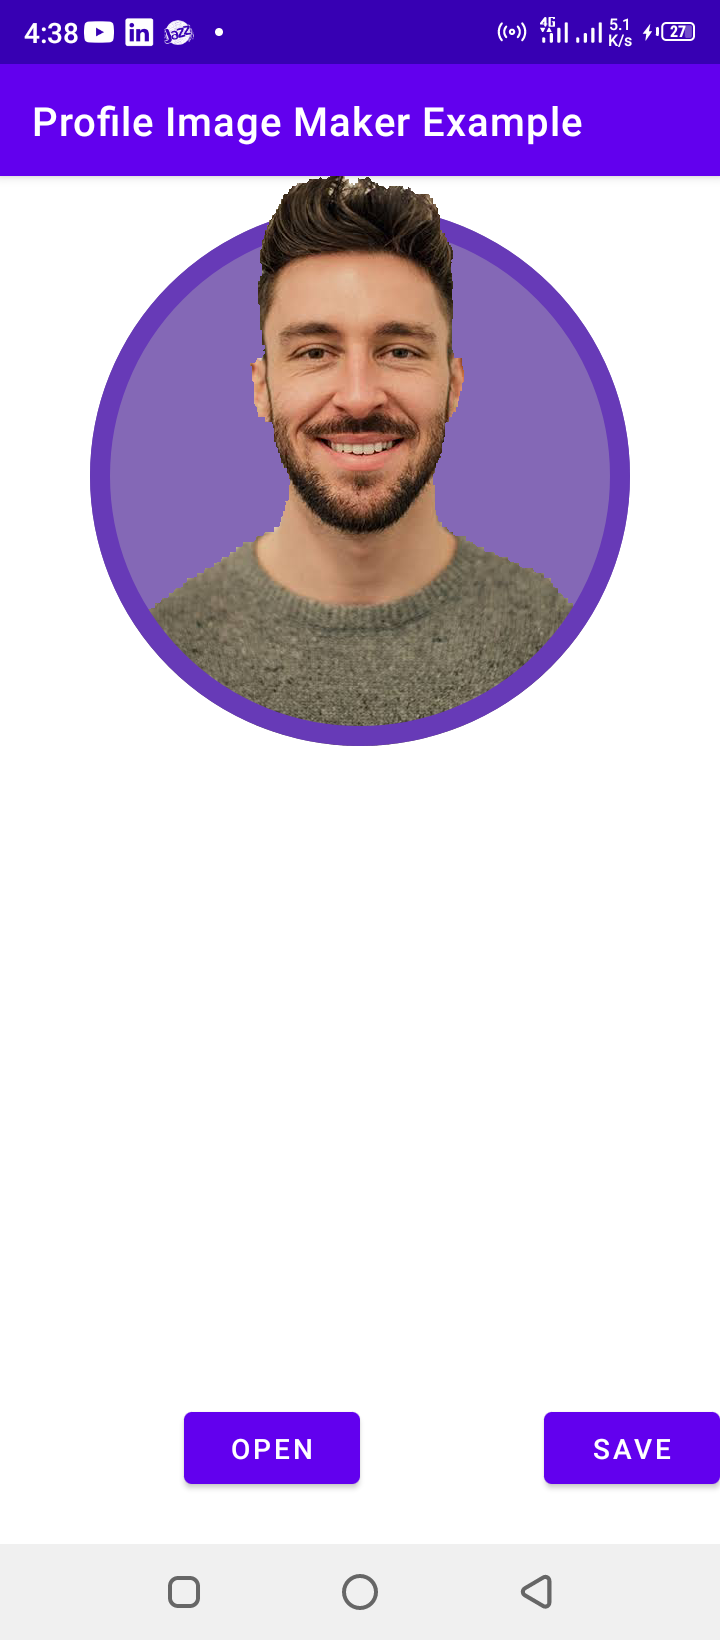
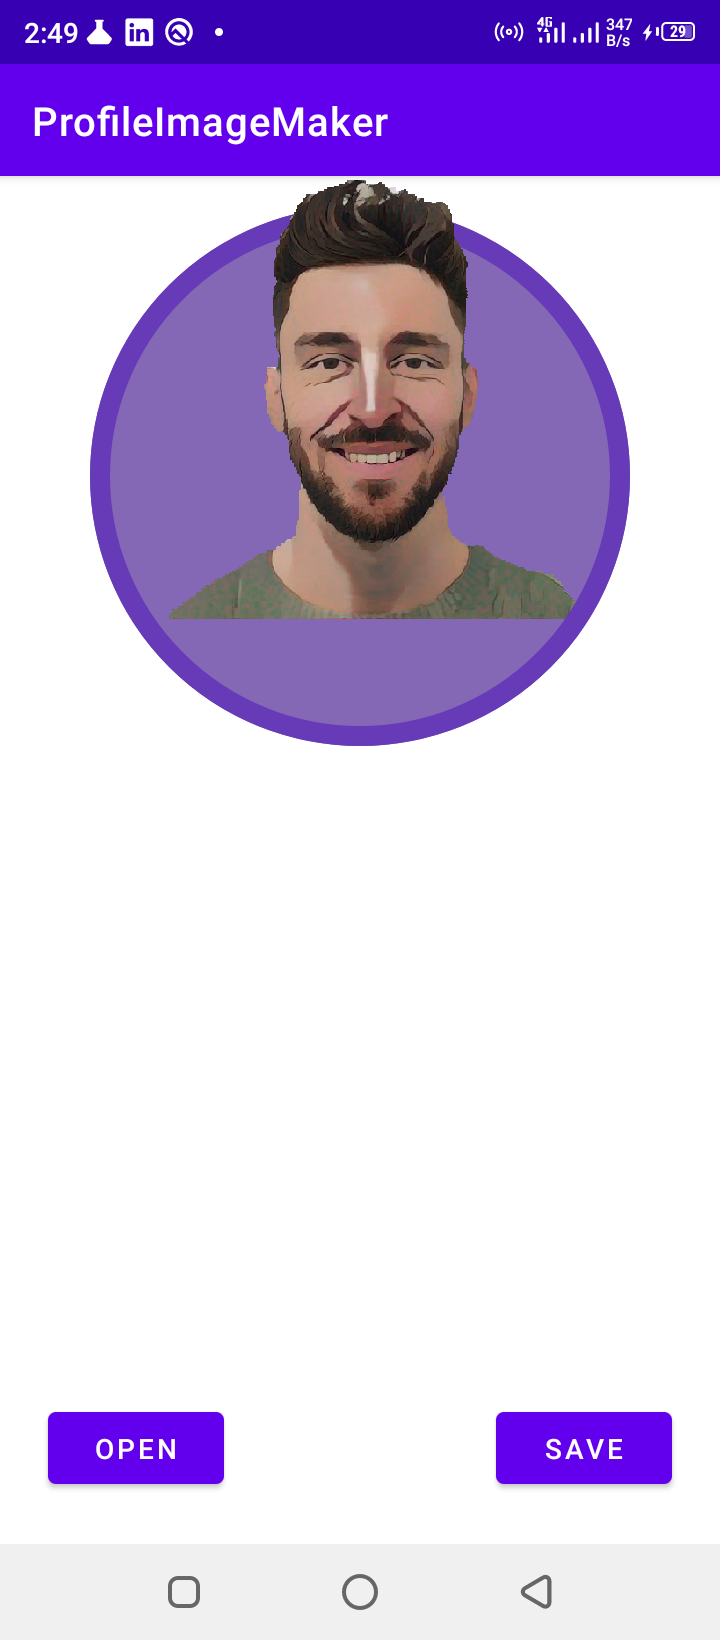
cartoon effect added

diff --git a/app/src/main/java/com/farimarwat/profileimagemakerexample/MainActivity.kt b/app/src/main/java/com/farimarwat/profileimagemakerexample/MainActivity.kt
@@ -33,9 +33,11 @@ class MainActivity : AppCompatActivity() {
         val getContent = registerForActivityResult(ActivityResultContracts.GetContent()){
             mBitmap = MediaStore.Images.Media.getBitmap(contentResolver,it)
             mBitmap?.let { src ->
-                mPim.applyRemoveBackground(src){ result ->
-                    binding.progressBar.visibility = View.GONE
-                    binding.pim.setImage(result)
+                mPim.applyCartoonEffect01(src){ result ->
+                    mPim.applyRemoveBackground(result){ res ->
+                        binding.progressBar.visibility = View.GONE
+                        binding.pim.setImage(res)
+                    }
                 }
             }
         }
